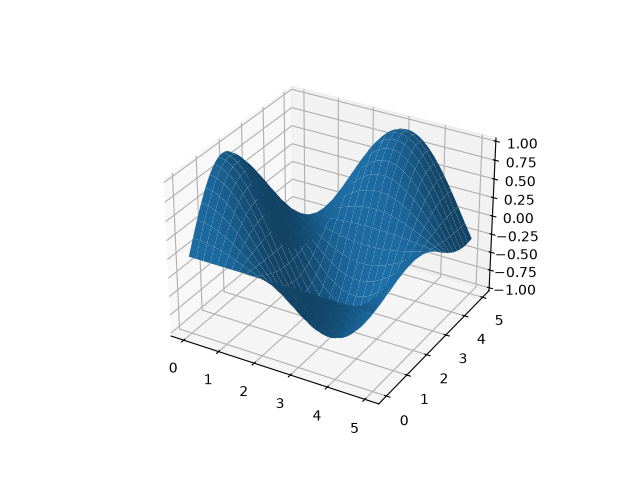
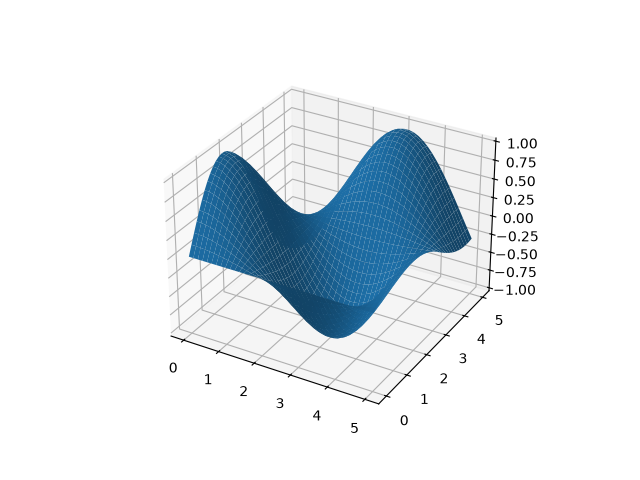
fixed boundary condition

Changed region(s): [[0.3125, 0.25, 0.75, 0.625]]

diff --git a/Scripts/problem_0_4.py b/Scripts/problem_0_4.py
@@ -18,18 +18,23 @@ def finiteDifferencePoisson(a, b, n, bc="dirichlet"):
         y = np.linspace(a, b, n) # this line in unnecessary but makes my code a bit easier to read
         xx, yy = np.meshgrid(x,y)
         h = (b-a)/(n-1)
-        b_hat = f(xx,yy).reshape((n**2,))
+        b_hat_inter = f(xx,yy)
+        b_hat = b_hat_inter.reshape((n**2,))
+        print(b_hat_inter)
+        print(b_hat)
+        print(xx)
+        print(yy)
         print("Defining linear system...")
         for i in range(n):
             for j in range(n):
                 k = n*i+j
                 # leave A unmodified (we want an identity row) and update b_hat to enforce the boundary condition along the boundaries
                 if i == 0:
-                    b_hat[k] = np.sin(y[j])*np.cos(5)
-                elif j == 0: 
+                    b_hat[k] = np.sin(y[j])
+                elif j == 0:
                     b_hat[k] = 0
                 elif i == n-1:
-                    b_hat[k] = np.sin(y[j])
+                    b_hat[k] = np.sin(y[j])*np.cos(5)
                 elif j == n-1 :
                     b_hat[k] = np.sin(5)*np.cos(x[i])
                 # Finite difference formula everywhere else
@@ -52,23 +57,24 @@ def finiteDifferencePoisson(a, b, n, bc="dirichlet"):
 def main():
     a = 0
     b = 5
-    n = 51
+    n = 40
 
     # Get the numerical solution
-    x,y,u_approx = finiteDifferencePoisson(a, b, n)
+    xx,yy,u_approx = finiteDifferencePoisson(a, b, n)
 
     # Get the exact solution
-    u_exact = u(x,y)
+    u_exact = u(xx,yy)
 
     fig1 = plt.figure(1)
     ax1 = plt.axes(projection='3d')
-    ax1.plot_surface(x,y,u_approx)
+    ax1.plot_surface(xx,yy,u_approx)
     plt.savefig("Images\\problem4_1.png")
 
     fig2 = plt.figure(2)
     ax2 = plt.axes(projection='3d')
-    ax2.plot_surface(x,y,u_exact)
+    ax2.plot_surface(xx,yy,u_exact)
     plt.savefig("Images\\problem4_2.png")
+    plt.show()
 
 if __name__ == "__main__":
     main()
